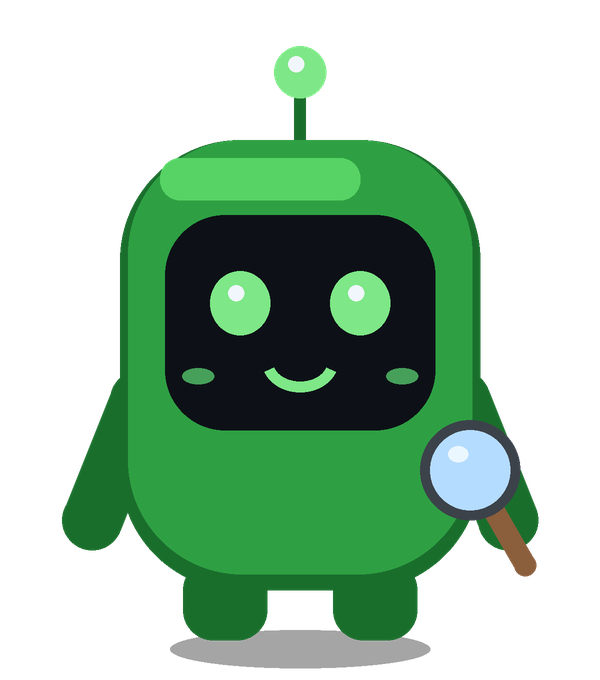
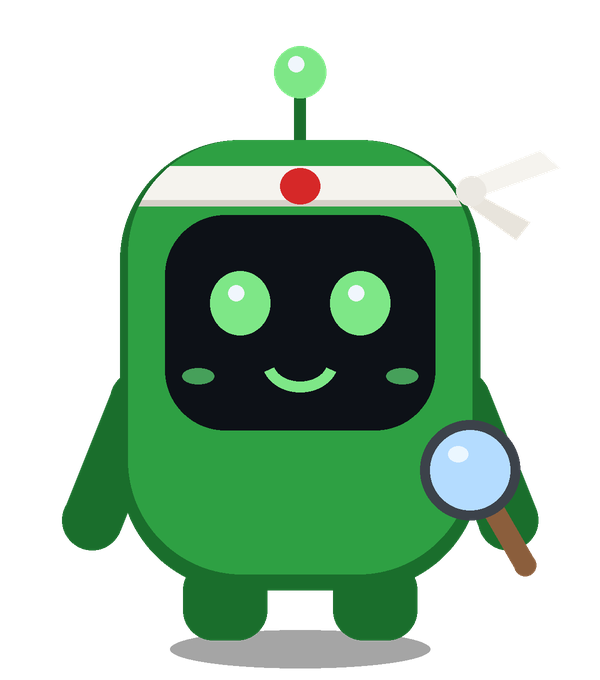
Японский фон для роликов и повязка-хатимаки у маскота
- japan_bg.py: ночь, луна, Фудзи, пагода, тории, сакура, падающие лепестки
- маскот: вместо светлой полосы на голове — хатимаки
- reel_v2 и скилл github-finder-reel используют новый фон

Claude-Session: https://claude.ai/code/session_011oH9xPGX9c2NRFv9SnEKvj

Changed region(s): [[0.24, 0.2162, 0.9, 0.3706]]

diff --git a/japan_bg.py b/japan_bg.py
@@ -1,0 +1,196 @@
+#!/usr/bin/env python3
+"""
+Японский фон для роликов GitHub Finder: ночное небо, луна, Фудзи, туман,
+пагода, красные тории, ветви сакуры и падающие лепестки (анимация).
+Всё рисуется кодом (Pillow), без чужих картинок.
+"""
+import math
+import random
+
+from PIL import Image, ImageDraw, ImageFilter
+
+W, H = 1080, 1920
+
+
+def _vgrad(w, h, stops):
+    """Вертикальный градиент: stops = [(доля 0..1, (r,g,b)), …]."""
+    im = Image.new("RGB", (1, h))
+    px = im.load()
+    for y in range(h):
+        f = y / (h - 1)
+        for (f0, c0), (f1, c1) in zip(stops, stops[1:]):
+            if f0 <= f <= f1:
+                k = (f - f0) / max(1e-6, f1 - f0)
+                px[0, y] = tuple(int(a + (b - a) * k) for a, b in zip(c0, c1))
+                break
+    return im.resize((w, h))
+
+
+def _blur_layer(size, draw_fn, radius):
+    lay = Image.new("RGBA", size, (0, 0, 0, 0))
+    draw_fn(ImageDraw.Draw(lay))
+    return lay.filter(ImageFilter.GaussianBlur(radius))
+
+
+def _pagoda(d, cx, base, scale, color):
+    """Силуэт пятиярусной пагоды с загнутыми карнизами."""
+    y = base
+    tiers = 5
+    for i in range(tiers):
+        bw = (260 - i * 34) * scale
+        th = (78 - i * 4) * scale
+        # стена яруса
+        d.rectangle((cx - bw * 0.32, y - th, cx + bw * 0.32, y), fill=color)
+        # крыша с загнутыми краями
+        ry = y - th
+        d.polygon([(cx - bw * 0.62, ry + 8 * scale), (cx - bw * 0.5, ry - 4 * scale),
+                   (cx - bw * 0.28, ry - 26 * scale), (cx + bw * 0.28, ry - 26 * scale),
+                   (cx + bw * 0.5, ry - 4 * scale), (cx + bw * 0.62, ry + 8 * scale),
+                   (cx + bw * 0.4, ry + 2 * scale), (cx - bw * 0.4, ry + 2 * scale)], fill=color)
+        y = ry - 26 * scale
+    # шпиль
+    d.rectangle((cx - 5 * scale, y - 120 * scale, cx + 5 * scale, y), fill=color)
+    for k in range(5):
+        yy = y - 30 * scale - k * 18 * scale
+        d.ellipse((cx - 13 * scale, yy - 5 * scale, cx + 13 * scale, yy + 5 * scale), fill=color)
+
+
+def _torii(d, cx, base, scale, red, dark):
+    h = 420 * scale
+    pw = 26 * scale
+    span = 300 * scale
+    for sx in (-1, 1):
+        x = cx + sx * span / 2
+        d.polygon([(x - pw / 2, base), (x + pw / 2, base), (x + pw / 2 * 0.8, base - h), (x - pw / 2 * 0.8, base - h)], fill=red)
+        d.rectangle((x - pw * 0.8, base - 26 * scale, x + pw * 0.8, base), fill=dark)
+    # нижняя перекладина (нуки)
+    d.rectangle((cx - span / 2 - 40 * scale, base - h * 0.72, cx + span / 2 + 40 * scale, base - h * 0.72 + 22 * scale), fill=red)
+    # верхняя (касаги) — изогнутая
+    top = base - h
+    d.polygon([(cx - span / 2 - 95 * scale, top - 12 * scale), (cx - span / 2 - 70 * scale, top - 46 * scale),
+               (cx, top - 36 * scale), (cx + span / 2 + 70 * scale, top - 46 * scale),
+               (cx + span / 2 + 95 * scale, top - 12 * scale), (cx, top - 2 * scale)], fill=dark)
+    d.rectangle((cx - span / 2 - 55 * scale, top, cx + span / 2 + 55 * scale, top + 24 * scale), fill=red)
+    d.rectangle((cx - 12 * scale, top + 24 * scale, cx + 12 * scale, base - h * 0.72), fill=red)
+
+
+def _branch(d, rnd, x, y, ang, length, width, depth, blossoms):
+    if depth == 0 or length < 18:
+        return
+    x2 = x + math.cos(ang) * length
+    y2 = y + math.sin(ang) * length
+    d.line((x, y, x2, y2), fill=(48, 28, 36), width=max(2, int(width)))
+    if depth <= 3:
+        for _ in range(int(6 * (4 - depth))):
+            t = rnd.random()
+            bx = x + (x2 - x) * t + rnd.uniform(-26, 26)
+            by = y + (y2 - y) * t + rnd.uniform(-26, 26)
+            blossoms.append((bx, by, rnd.uniform(8, 17)))
+    for da in (-0.45, 0.35):
+        _branch(d, rnd, x2, y2, ang + da + rnd.uniform(-0.2, 0.2), length * rnd.uniform(0.62, 0.78),
+                width * 0.68, depth - 1, blossoms)
+
+
+def _sakura_corner(size, root, ang, seed):
+    rnd = random.Random(seed)
+    lay = Image.new("RGBA", size, (0, 0, 0, 0))
+    d = ImageDraw.Draw(lay)
+    blossoms = []
+    _branch(d, rnd, root[0], root[1], ang, 170, 20, 4, blossoms)
+    glow = Image.new("RGBA", size, (0, 0, 0, 0))
+    gd = ImageDraw.Draw(glow)
+    for bx, by, r in blossoms:
+        gd.ellipse((bx - r * 1.8, by - r * 1.8, bx + r * 1.8, by + r * 1.8), fill=(255, 150, 190, 60))
+    lay.alpha_composite(glow.filter(ImageFilter.GaussianBlur(10)))
+    for bx, by, r in blossoms:
+        c = rnd.choice([(255, 183, 206), (255, 201, 219), (246, 160, 192), (255, 222, 233)])
+        for k in range(5):
+            a = k * 2 * math.pi / 5 + rnd.random()
+            px, py = bx + math.cos(a) * r * 0.55, by + math.sin(a) * r * 0.55
+            d.ellipse((px - r * 0.55, py - r * 0.55, px + r * 0.55, py + r * 0.55), fill=c + (255,))
+        d.ellipse((bx - r * 0.25, by - r * 0.25, bx + r * 0.25, by + r * 0.25), fill=(214, 90, 130, 255))
+    return lay
+
+
+def background():
+    sky = _vgrad(W, H, [(0.0, (10, 12, 38)), (0.35, (34, 22, 66)), (0.58, (98, 42, 88)),
+                        (0.68, (176, 82, 104)), (0.74, (60, 30, 62)), (1.0, (12, 10, 22))]).convert("RGBA")
+    # звёзды
+    rnd = random.Random(7)
+    st = ImageDraw.Draw(sky)
+    for _ in range(160):
+        x, y = rnd.randrange(W), rnd.randrange(0, 900)
+        r = rnd.choice((1, 1, 1, 2))
+        st.ellipse((x - r, y - r, x + r, y + r), fill=(255, 255, 255, rnd.randrange(80, 220)))
+    # луна со свечением
+    mx, my, mr = 760, 470, 165
+    sky.alpha_composite(_blur_layer((W, H), lambda d: d.ellipse((mx - mr * 1.9, my - mr * 1.9, mx + mr * 1.9, my + mr * 1.9), fill=(255, 214, 170, 70)), 70))
+    md = ImageDraw.Draw(sky)
+    md.ellipse((mx - mr, my - mr, mx + mr, my + mr), fill=(255, 236, 205, 255))
+    sky.alpha_composite(_blur_layer((W, H), lambda d: [d.ellipse((mx + dx - r, my + dy - r, mx + dx + r, my + dy + r), fill=(214, 186, 156, a))
+                                                       for dx, dy, r, a in ((-50, -30, 34, 90), (40, 50, 22, 80), (-10, 70, 16, 70), (60, -60, 18, 70))], 4))
+    # Фудзи
+    fuji = Image.new("RGBA", (W, H), (0, 0, 0, 0))
+    fd = ImageDraw.Draw(fuji)
+    base_y, peak = 1330, 860
+    fd.polygon([(-260, base_y), (380, peak + 18), (470, peak), (610, peak), (700, peak + 18), (1340, base_y)], fill=(44, 32, 74, 255))
+    fd.polygon([(380, peak + 18), (470, peak), (610, peak), (700, peak + 18), (760, 990), (705, 965), (660, 1005),
+                (600, 960), (545, 1010), (490, 962), (430, 1000), (380, 960), (318, 992)], fill=(236, 230, 246, 255))
+    sky.alpha_composite(fuji)
+    # туман
+    sky.alpha_composite(_blur_layer((W, H), lambda d: [d.rectangle((0, y, W, y + 60), fill=(255, 190, 210, 40)) for y in (1150, 1230, 1300)], 40))
+    # дальние холмы
+    hills = Image.new("RGBA", (W, H), (0, 0, 0, 0))
+    hd = ImageDraw.Draw(hills)
+    pts = [(0, H)]
+    for x in range(0, W + 40, 40):
+        pts.append((x, 1330 + 40 * math.sin(x / 140) + 20 * math.sin(x / 47)))
+    pts.append((W, H))
+    hd.polygon(pts, fill=(28, 20, 46, 255))
+    sky.alpha_composite(hills)
+    # пагода слева и тории справа
+    sil = Image.new("RGBA", (W, H), (0, 0, 0, 0))
+    sd = ImageDraw.Draw(sil)
+    _pagoda(sd, 170, 1420, 0.95, (16, 12, 30, 255))
+    _torii(sd, 880, 1560, 0.62, (178, 40, 48, 255), (70, 16, 26, 255))
+    sky.alpha_composite(sil)
+    # передний план
+    ground = Image.new("RGBA", (W, H), (0, 0, 0, 0))
+    gd = ImageDraw.Draw(ground)
+    pts = [(0, H)]
+    for x in range(0, W + 30, 30):
+        pts.append((x, 1520 + 25 * math.sin(x / 90 + 1)))
+    pts.append((W, H))
+    gd.polygon(pts, fill=(10, 8, 18, 255))
+    sky.alpha_composite(ground)
+    # сакура в верхних углах
+    sky.alpha_composite(_sakura_corner((W, H), (-20, 30), 0.06, 3))
+    sky.alpha_composite(_sakura_corner((W, H), (W + 20, 250), math.pi - 0.02, 11))
+    # затемнение центра, чтобы читались окна и текст
+    dark = Image.new("RGBA", (W, H), (8, 6, 18, 0))
+    m = Image.new("L", (W, H), 0)
+    ImageDraw.Draw(m).rounded_rectangle((90, 230, W - 90, 1420), radius=220, fill=140)
+    dark.putalpha(m.filter(ImageFilter.GaussianBlur(120)))
+    sky.alpha_composite(dark)
+    return sky
+
+
+class Petals:
+    """Падающие лепестки сакуры: позиция зависит от глобального времени ролика."""
+
+    def __init__(self, n=34, seed=5):
+        rnd = random.Random(seed)
+        self.p = [(rnd.uniform(0, W), rnd.uniform(0, H), rnd.uniform(60, 140), rnd.uniform(-60, 20),
+                   rnd.uniform(9, 18), rnd.uniform(0, 6.28), rnd.uniform(1.5, 3.5),
+                   rnd.choice([(255, 183, 206), (255, 201, 219), (246, 160, 192)])) for _ in range(n)]
+
+    def draw(self, f, t):
+        lay = Image.new("RGBA", f.size, (0, 0, 0, 0))
+        d = ImageDraw.Draw(lay)
+        for x0, y0, vy, vx, r, ph, sw, c in self.p:
+            y = (y0 + vy * t) % (H + 60) - 30
+            x = (x0 + vx * t + 40 * math.sin(t * sw * 0.5 + ph)) % (W + 60) - 30
+            k = abs(math.cos(t * sw + ph))          # «переворот» лепестка
+            rx, ry = r, max(3, r * 0.55 * (0.4 + 0.6 * k))
+            d.ellipse((x - rx, y - ry, x + rx, y + ry), fill=c + (215,))
+        f.alpha_composite(lay)

diff --git a/mascot.py b/mascot.py
@@ -66,7 +66,19 @@ def draw(pose="idle"):
     # корпус
     d.rounded_rectangle(_s((120, 140, 480, 590)), radius=120 * S, fill=BODY_DARK)
     d.rounded_rectangle(_s((128, 140, 472, 574)), radius=114 * S, fill=BODY)
-    d.rounded_rectangle(_s((160, 158, 360, 200)), radius=20 * S, fill=BODY_LIGHT)
+    # повязка-хатимаки (белая с красным кругом), обрезана по форме головы
+    band = Image.new("RGBA", im.size, (0, 0, 0, 0))
+    bd = ImageDraw.Draw(band)
+    bd.rectangle(_s((110, 166, 490, 206)), fill=(245, 243, 238))
+    bd.rectangle(_s((110, 200, 490, 206)), fill=(214, 208, 200))
+    bd.ellipse(_s((280, 168, 320, 204)), fill=(214, 40, 40))
+    bmask = Image.new("L", im.size, 0)
+    ImageDraw.Draw(bmask).rounded_rectangle(_s((128, 140, 472, 574)), radius=114 * S, fill=255)
+    im.paste(band, (0, 0), Image.composite(band.getchannel("A"), Image.new("L", im.size, 0), bmask))
+    # концы узла развеваются справа
+    d.polygon(_s((470, 178, 540, 150, 560, 168, 482, 196)), fill=(245, 243, 238))
+    d.polygon(_s((470, 190, 530, 222, 516, 240, 466, 204)), fill=(232, 228, 220))
+    d.ellipse(_s((456, 176, 486, 206)), fill=(235, 232, 226))
     # экран-лицо
     d.rounded_rectangle(_s((165, 215, 435, 430)), radius=60 * S, fill=SCREEN)
     # лицо по позе
@@ -110,8 +122,8 @@ def draw(pose="idle"):
     if pose == "idle":
         _magnifier(d, 470, 470, angle_deg=60, r=40)
     if pose == "surprised":
-        d.rounded_rectangle(_s((520, 120, 548, 220)), radius=12 * S, fill=(255, 214, 102))
-        d.ellipse(_s((520, 236, 548, 264)), fill=(255, 214, 102))
+        d.rounded_rectangle(_s((52, 120, 80, 220)), radius=12 * S, fill=(255, 214, 102))
+        d.ellipse(_s((52, 236, 80, 264)), fill=(255, 214, 102))
     if pose == "think":
         d.ellipse(_s((490, 110, 570, 190)), fill=WHITE)
         d.ellipse(_s((462, 200, 486, 224)), fill=WHITE)

diff --git a/reel_v2.py b/reel_v2.py
@@ -18,6 +18,7 @@ import tempfile
 from PIL import Image, ImageDraw, ImageFilter
 
 import bot
+import japan_bg
 import mascot
 import reel
 from reel import (ACCENT, BG, BORDER, CARD, FG, FPS, H, MUTED, W, ease, fade, font,
@@ -250,8 +251,12 @@ def telegram_phone(infos, thumbs, avatar):
 
 class SceneV2(reel.Scene):
     sfx = ()   # [(время от начала сцены, "whoosh"|"pop")]
+    petals = None
+    t0 = 0.0
 
     def overlay(self, f, t):
+        if self.petals:
+            self.petals.draw(f, self.t0 + t)
         if self.captions:
             self.captions.draw(f, t)
         return f
@@ -432,7 +437,7 @@ def background_v2():
 def build(posts, script, voice_dir, out_path, media_loader=reel.load_media):
     tmp = tempfile.mkdtemp(prefix="reel2_")
     try:
-        base = reel.chrome(background_v2())
+        base = reel.chrome(japan_bg.background())
         mas = mascot.all_poses()
         segs = script["segments"]
         infos = [reel.extract(p) for p in posts]
@@ -455,8 +460,12 @@ def build(posts, script, voice_dir, out_path, media_loader=reel.load_media):
             scenes.append(FindV2(base, i + 1, infos[i], medias[i], seg.get("points") or infos[i]["points"],
                                  voiced[i + 1][2], mas))
         scenes.append(CtaV2(base, voiced[4][2], infos, telegram_phone(infos, thumbs, mas["happy"]), mas))
+        petals = japan_bg.Petals()
+        tacc = 0.0
         for sc, seg, v in zip(scenes, segs, voiced):
             sc.captions = CaptionsV2(seg["show"], LEAD, LEAD + v[1])
+            sc.petals, sc.t0 = petals, tacc
+            tacc += sc.duration
         total = sum(s.duration for s in scenes)
         # видео
         parts, t0, sfx_events = [], 0.0, []

diff --git a/.claude/skills/github-finder-reel/SKILL.md b/.claude/skills/github-finder-reel/SKILL.md
@@ -27,7 +27,8 @@ description: Монтирует вертикальный ролик «3 нахо
    - **Хук:** «3 НАХОДКИ / С GITHUB» + удивлённый маскот → веер из трёх окон с продуктами + «БЕСПЛАТНО».
    - **Финал:** «КАКАЯ ЗАШЛА?» + кнопки 1/2/3 + задумчивый маскот → телефон с каналом GitHub Finder (последние посты, кнопка «Подписаться») + плашки «GITHUB FINDER» и «ссылка в профиле».
    - **Субтитры:** 2–3 слова, КАПСЛОК, Inter Black ~70px, белые с чёрной обводкой и тенью, **ключевые слова зелёные** (в сценарии помечены `*звёздочками*`), без плашки; по центру на высоте ~1330px; каждая фраза «впрыгивает» (масштаб 1.12→1).
-   - **Цвета:** фон `#0D1117` с зелёным свечением и точечной сеткой, акцент `#3FB950`, звёзды `#FFD666`, текст `#F0F6FC`. Сверху «GitHub Finder · Telegram» и зелёная полоса прогресса.
+   - **Фон — ночная Япония** (`japan_bg.py`): небо от индиго к розовому, луна со свечением, Фудзи со снежной шапкой, туман, пагода слева, красные тории справа, ветки сакуры в верхних углах (не заходят в центр), падающие лепестки по всему ролику. Центр под текстом притемнён. Маскот в белой повязке-хатимаки с красным кругом.
+   - **Цвета:** акцент `#3FB950`, звёзды `#FFD666`, текст `#F0F6FC`, лепестки `#FFB7CE`. Сверху «GitHub Finder · Telegram» и зелёная полоса прогресса.
    - **Звук:** голос 0 дБ, короткий «вжух» на каждой смене бита и «поп» на появлении элементов (тихо, под голосом), итог −14 LUFS. Музыку владелец добавляет трендовую в приложении.
    - **Сценарий:** разговорный, от первого лица («Короче, я нашёл…»), хук в первые 2 секунды, у каждой находки — какую боль решает, 3 фишки, финал с вопросом в комменты и каналом. 45–60 секунд.
    - Безопасные зоны TikTok: ничего важного в нижних 300px и правых 140px.
